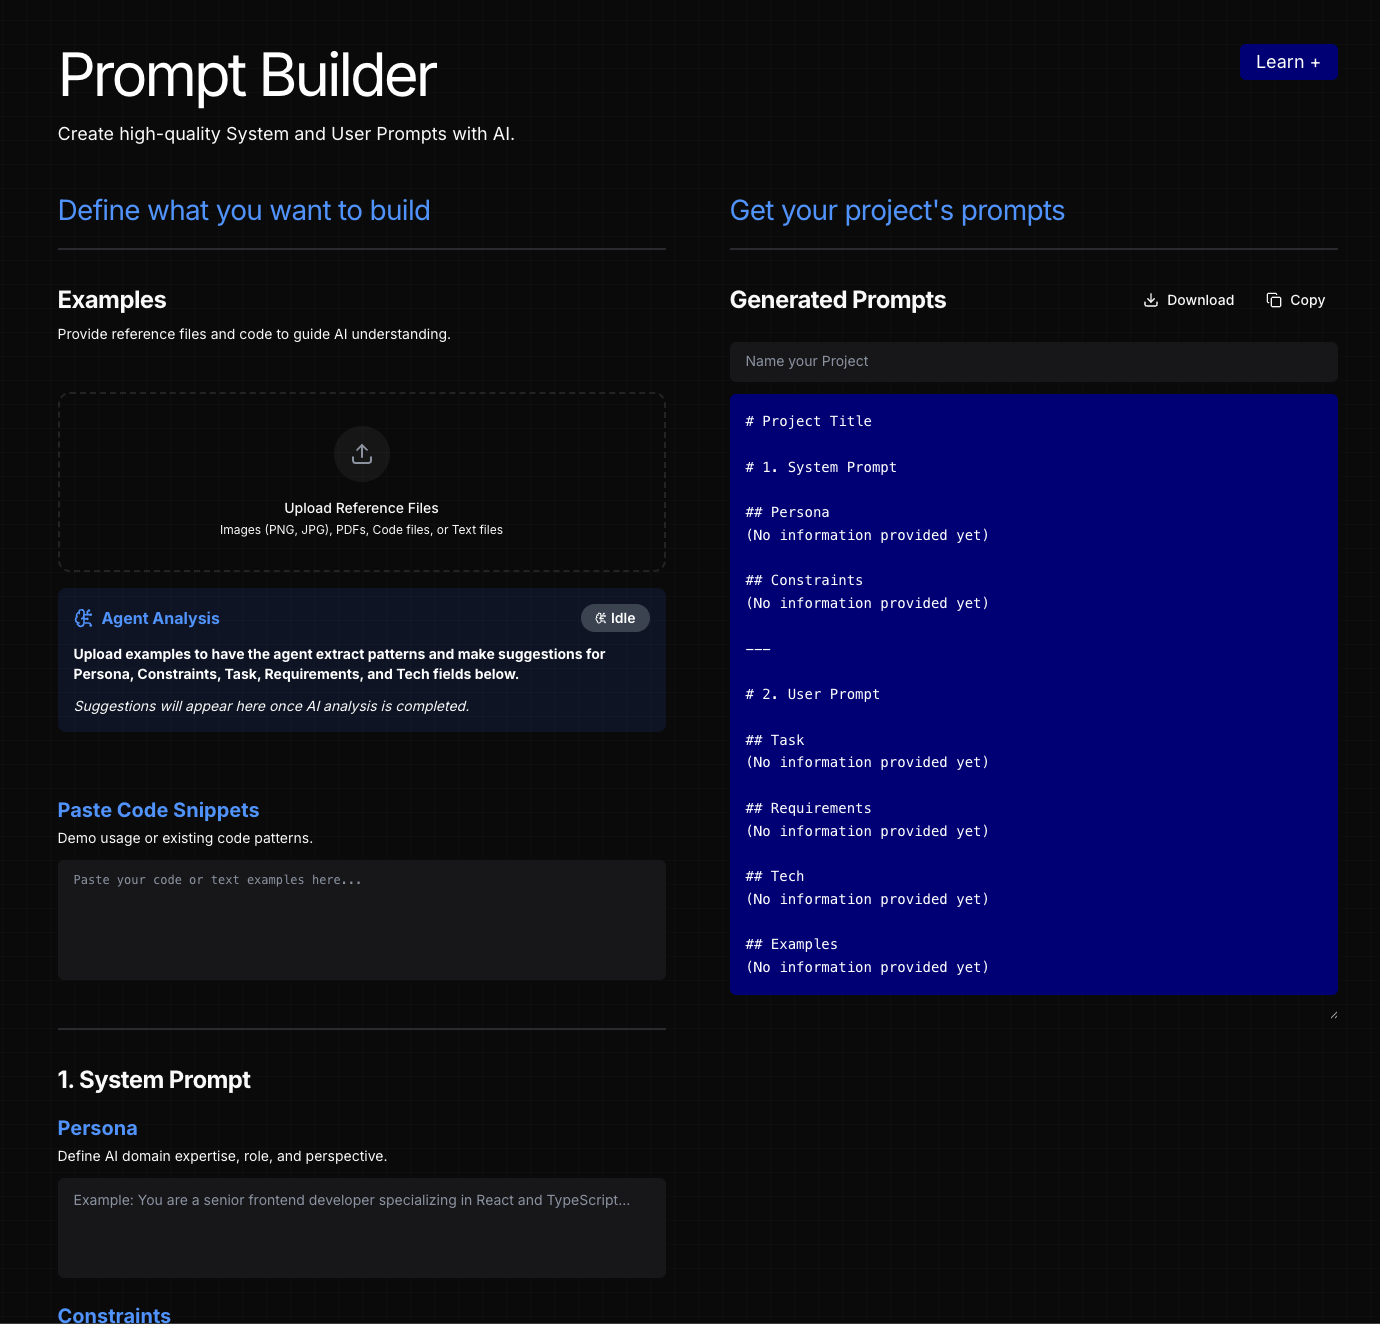
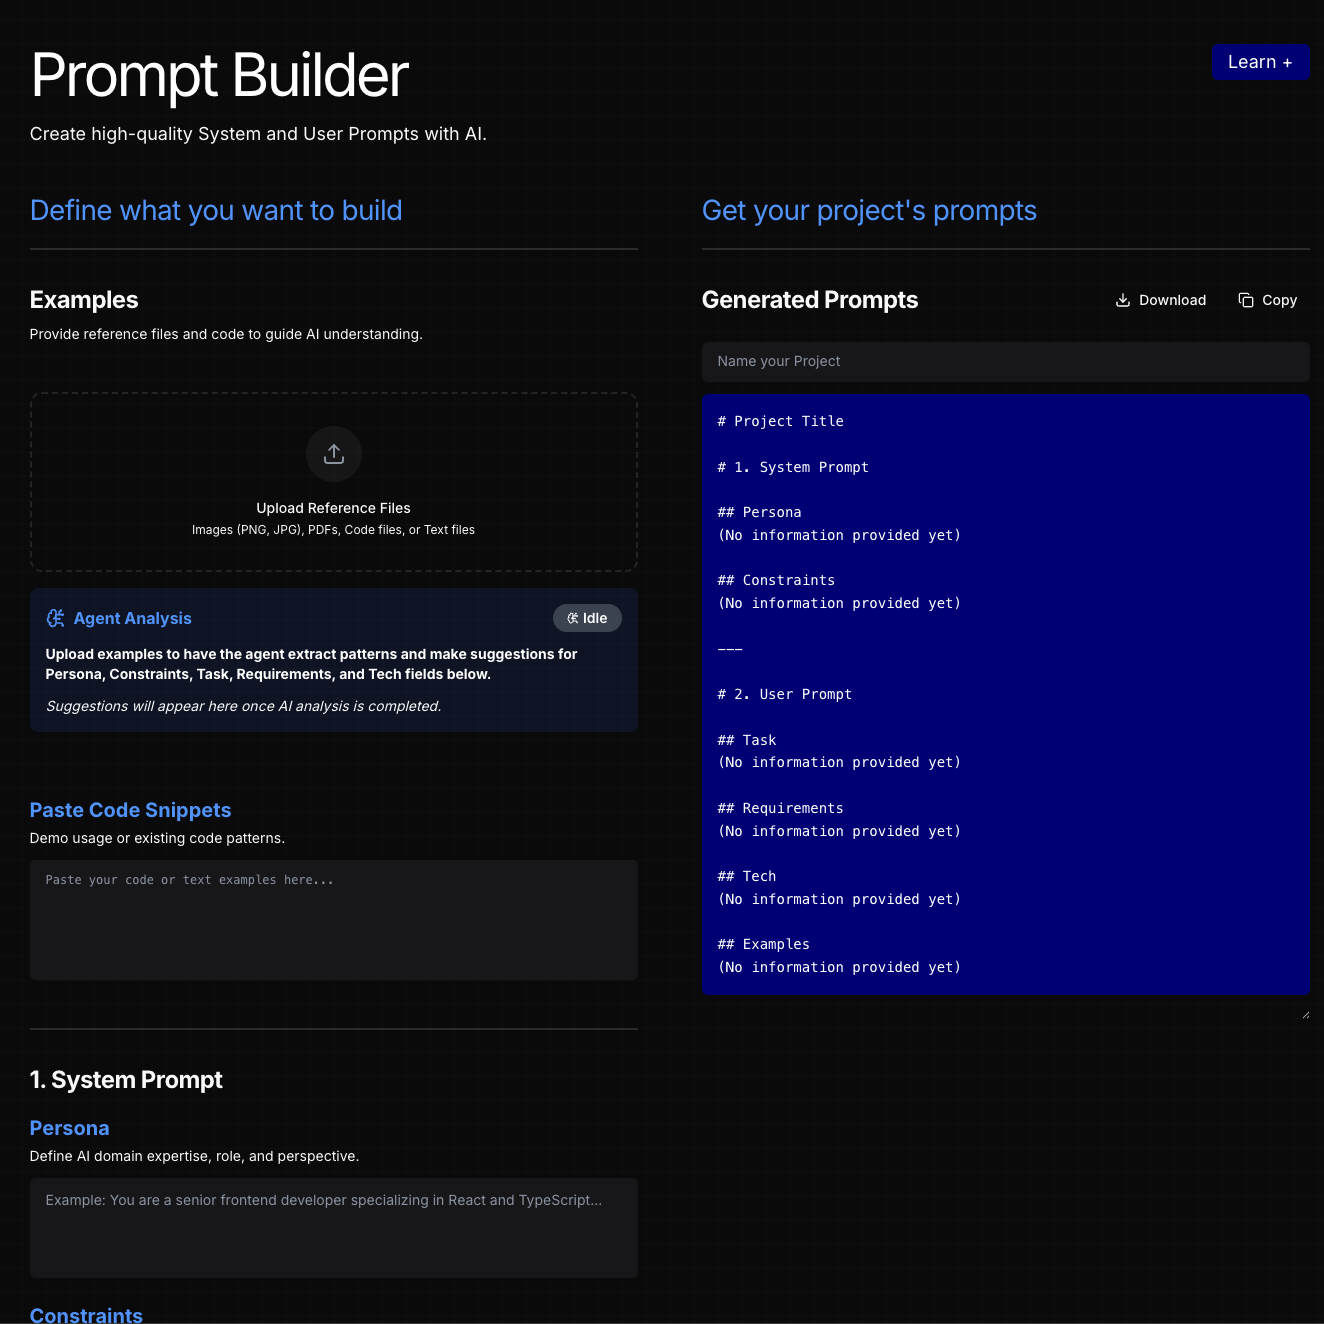
Add DM fonts and refresh project assets

diff --git a/src/styles/global.css b/src/styles/global.css
@@ -12,9 +12,11 @@
   --code-muted: #d4cdc4;
   --radius: 0.5rem;
   --mono:
-    ui-monospace, SFMono-Regular, SF Mono, Menlo, Monaco, Consolas,
+    "DM Mono", ui-monospace, SFMono-Regular, SF Mono, Menlo, Monaco, Consolas,
     Liberation Mono, monospace;
-  --sans: system-ui, -apple-system, BlinkMacSystemFont, "Segoe UI", sans-serif;
+  --sans:
+    "DM Sans", system-ui, -apple-system, BlinkMacSystemFont, "Segoe UI",
+    sans-serif;
 }
 
 * {
@@ -666,14 +668,12 @@ pre {
   color: var(--muted);
   font-size: 1.05rem;
   font-weight: 400;
-  font-family: var(--sans);
 }
 
 .stack-row > span:not(.stack-row-label) {
   color: var(--text);
   line-height: 1.55;
   font-size: 1.05rem;
-  font-family: var(--sans);
   font-weight: 700;
 }
 

diff --git a/HANDOFF.md b/HANDOFF.md
@@ -1,0 +1,252 @@
+# Tech Stacks Handoff
+
+This file is a session handoff for future work inside:
+
+`/Users/rocha/Documents/AI-Projects/tech-stacks`
+
+The earlier conversation began from the broader `AI-Projects` folder, but the actual project/repo for this site is the `tech-stacks` folder above.
+
+## What This Project Is
+
+`tech-stacks` is an Astro-based static site that documents the tech stack of projects inside the larger `AI-Projects` workspace.
+
+It includes:
+
+- a home page with project cards
+- one stack explainer page per project
+- bilingual support in English and Portuguese
+- shared project screenshots
+- shared layout/components for consistent structure
+
+## Repo and Deployment
+
+- Repo root: `/Users/rocha/Documents/AI-Projects/tech-stacks`
+- Git remote: `https://github.com/lularocha/tech-stacks.git`
+- Main branch: `main`
+- Vercel-linked project exists via `.vercel/project.json`
+- Astro output is static
+- Astro build format is `file`
+
+Important routing consequence:
+
+- English home builds to `/`
+- Portuguese home builds to `/pt.html`
+- English project pages build to `/<slug>.html`
+- Portuguese project pages build to `/pt/<slug>.html`
+
+## Current Stack
+
+- `Astro 5`
+- static output
+- shared styles in `src/styles/global.css`
+- shared metadata/content in `src/data/projects.ts`
+- simple browser script in `public/scripts/menu.js`
+
+## Key Files
+
+- `src/data/projects.ts`
+  - main source of truth for:
+    - site title
+    - project list
+    - English and Portuguese summaries
+    - live URLs
+    - image paths
+    - locale helpers
+    - shared UI strings
+
+- `src/layouts/BaseLayout.astro`
+  - shared page shell
+  - passes locale into shared header/footer
+
+- `src/components/Header.astro`
+  - site title
+  - EN/PT switcher
+  - menu with project links
+  - locale-aware nav behavior
+
+- `src/components/Footer.astro`
+  - localized footer text
+
+- `src/components/ProjectHero.astro`
+  - hero title/lead/live link/project image
+  - localized shared labels like:
+    - Tech Stack Review
+    - Live at
+    - At a glance
+
+- `src/components/ProjectCard.astro`
+  - home page project cards
+  - includes circular thumbnail image above title
+
+- `public/project-images/`
+  - project screenshots used in hero and home cards
+
+- `public/scripts/menu.js`
+  - menu open/close logic
+  - persistent language selection via `localStorage`
+
+## Current Projects in the Site
+
+These are currently included in the site:
+
+- `mybtc-calculator-stack`
+- `capital-gains-calculator-stack`
+- `card-tracker-stack`
+- `dots-animation-stack`
+- `glossary-builder-stack`
+- `hash-calculator-stack`
+- `prompt-builder-stack`
+- `qr-code-generator-stack`
+
+Portuguese versions exist for all of the above under `src/pages/pt/`.
+
+## Important Naming Decision
+
+The route previously called `sbe-animation-stack` was renamed inside this repo to:
+
+- `dots-animation-stack`
+
+Important nuance:
+
+- inside `tech-stacks`, references should use `dots-animation...`
+- but the actual external source project folder on disk is still:
+  - `/Users/rocha/Documents/AI-Projects/sbe-animation`
+
+That path remains accurate in source-basis notes because it points to the real project folder outside this repo.
+
+## i18n Decisions Already Made
+
+The bilingual strategy is already implemented with these rules:
+
+- full-site bilingual support
+- English is default
+- Portuguese is second language
+- persistent language switcher
+- switch keeps user on equivalent page when possible
+- English fallback is acceptable when PT content is missing
+- project titles are not translated
+- site title is not translated
+- footer is translated
+- home summaries are translated
+
+Current path strategy chosen for simplicity:
+
+- English home: `/`
+- Portuguese home: `/pt.html`
+
+Language switcher:
+
+- lives in the header next to the menu
+- uses `EN / PT`
+- persists choice in `localStorage`
+
+## Design / UI Decisions Already Established
+
+These are current visual decisions and should generally be preserved unless intentionally changed:
+
+- neutral gray page background
+- orange accent `#ff7700`
+- yellow top border on body
+- system sans + system monospace
+- shared radius token:
+  - `--radius: 0.5rem`
+- home card images:
+  - circular
+  - `80px`
+  - soft shadow
+- project hero images:
+  - `260px`
+  - top-left crop
+  - small rounded rectangle using `var(--radius)`
+  - soft shadow
+- hero background spans full width in white
+- “At a glance” uses flat list rows, not boxed card styling
+- site title in header:
+  - `AI Projects / Tech Stacks`
+- small kicker above title:
+  - `sugiro.ai`
+
+## README Status
+
+A repo README now exists at:
+
+- `README.md`
+
+It documents:
+
+- local development
+- structure
+- routing
+- content model
+- adding a new project
+- deployment notes
+
+## Legacy Files
+
+There are older root-level static files still present from the pre-Astro version, such as:
+
+- `index.html`
+- `card-tracker-stack.html`
+- `glossary-builder-stack.html`
+- `styles/`
+- `scripts/`
+
+These are no longer the source of truth.
+
+The Astro source of truth is:
+
+- `src/`
+- `public/`
+
+## Local Development Commands
+
+From the repo root:
+
+```bash
+npm install
+npm run dev
+npm run build
+npm run preview
+```
+
+## Verification Expectation
+
+Before committing meaningful changes, run:
+
+```bash
+npm run build
+```
+
+This has been the verification command used throughout the project.
+
+## Recent Commit Context
+
+Recent notable commits include:
+
+- `49facab` `Add Portuguese localization across the site`
+- `22cf833` `Rename dots animation route and add README`
+
+## Suggested Starting Point For Next Session
+
+If starting a new session, begin in:
+
+`/Users/rocha/Documents/AI-Projects/tech-stacks`
+
+Then:
+
+1. Read `README.md`
+2. Read this `HANDOFF.md`
+3. Inspect `src/data/projects.ts`
+4. Continue from the Astro structure, not the old static files
+
+## Recommended Future Work Pattern
+
+When adding a new project page:
+
+1. Add the project entry in `src/data/projects.ts`
+2. Add the screenshot to `public/project-images/`
+3. Create English page in `src/pages/`
+4. Create Portuguese page in `src/pages/pt/`
+5. Reuse existing shared components and layout
+6. Run `npm run build`
+